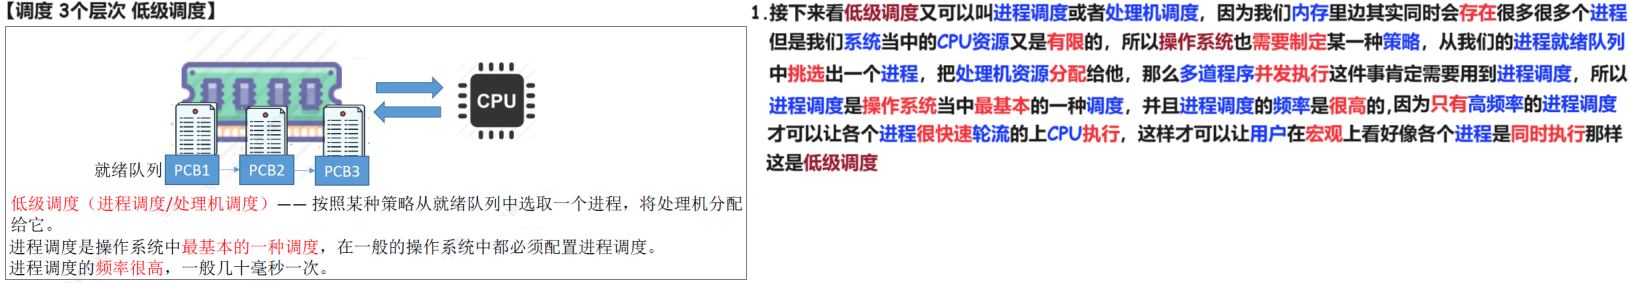
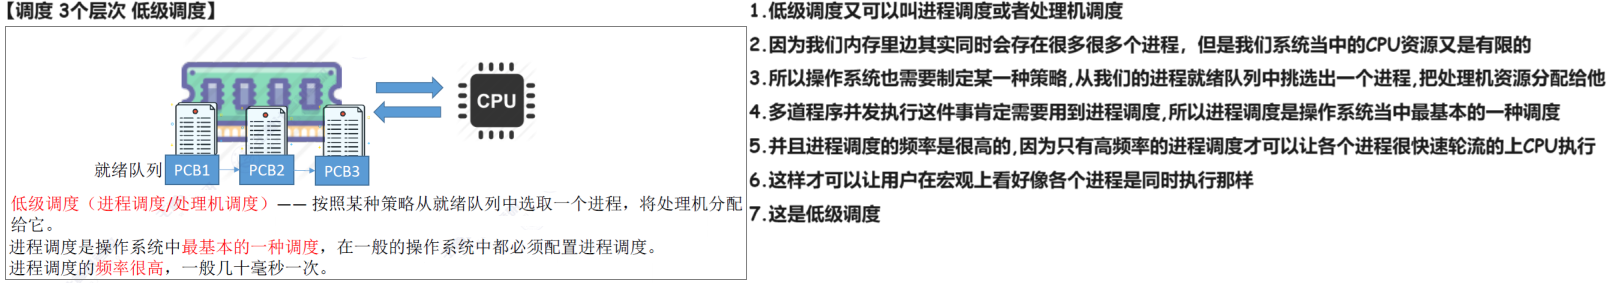
240606

diff --git a/01 初试/01 OS/02 24 25 王道/01 基础/02 进程 线程/02 处理机调度/01 调度 概念 层次 240606/02 消化/02 Doc.md b/01 初试/01 OS/02 24 25 王道/01 基础/02 进程 线程/02 处理机调度/01 调度 概念 层次 240606/02 消化/02 Doc.md
@@ -22,7 +22,7 @@
 
 # 04 调度 3个层次 低级调度
 
-<img src="https://cvp.oss-cn-shanghai.aliyuncs.com/picgo/202404302102288.png" alt="image-20240430210212087" style="zoom:50%;" />
+<img src="https://cvp.oss-cn-shanghai.aliyuncs.com/picgo/202406061008840.png" alt="image-20240606100854748" style="zoom: 50%;" />
 
 
 
